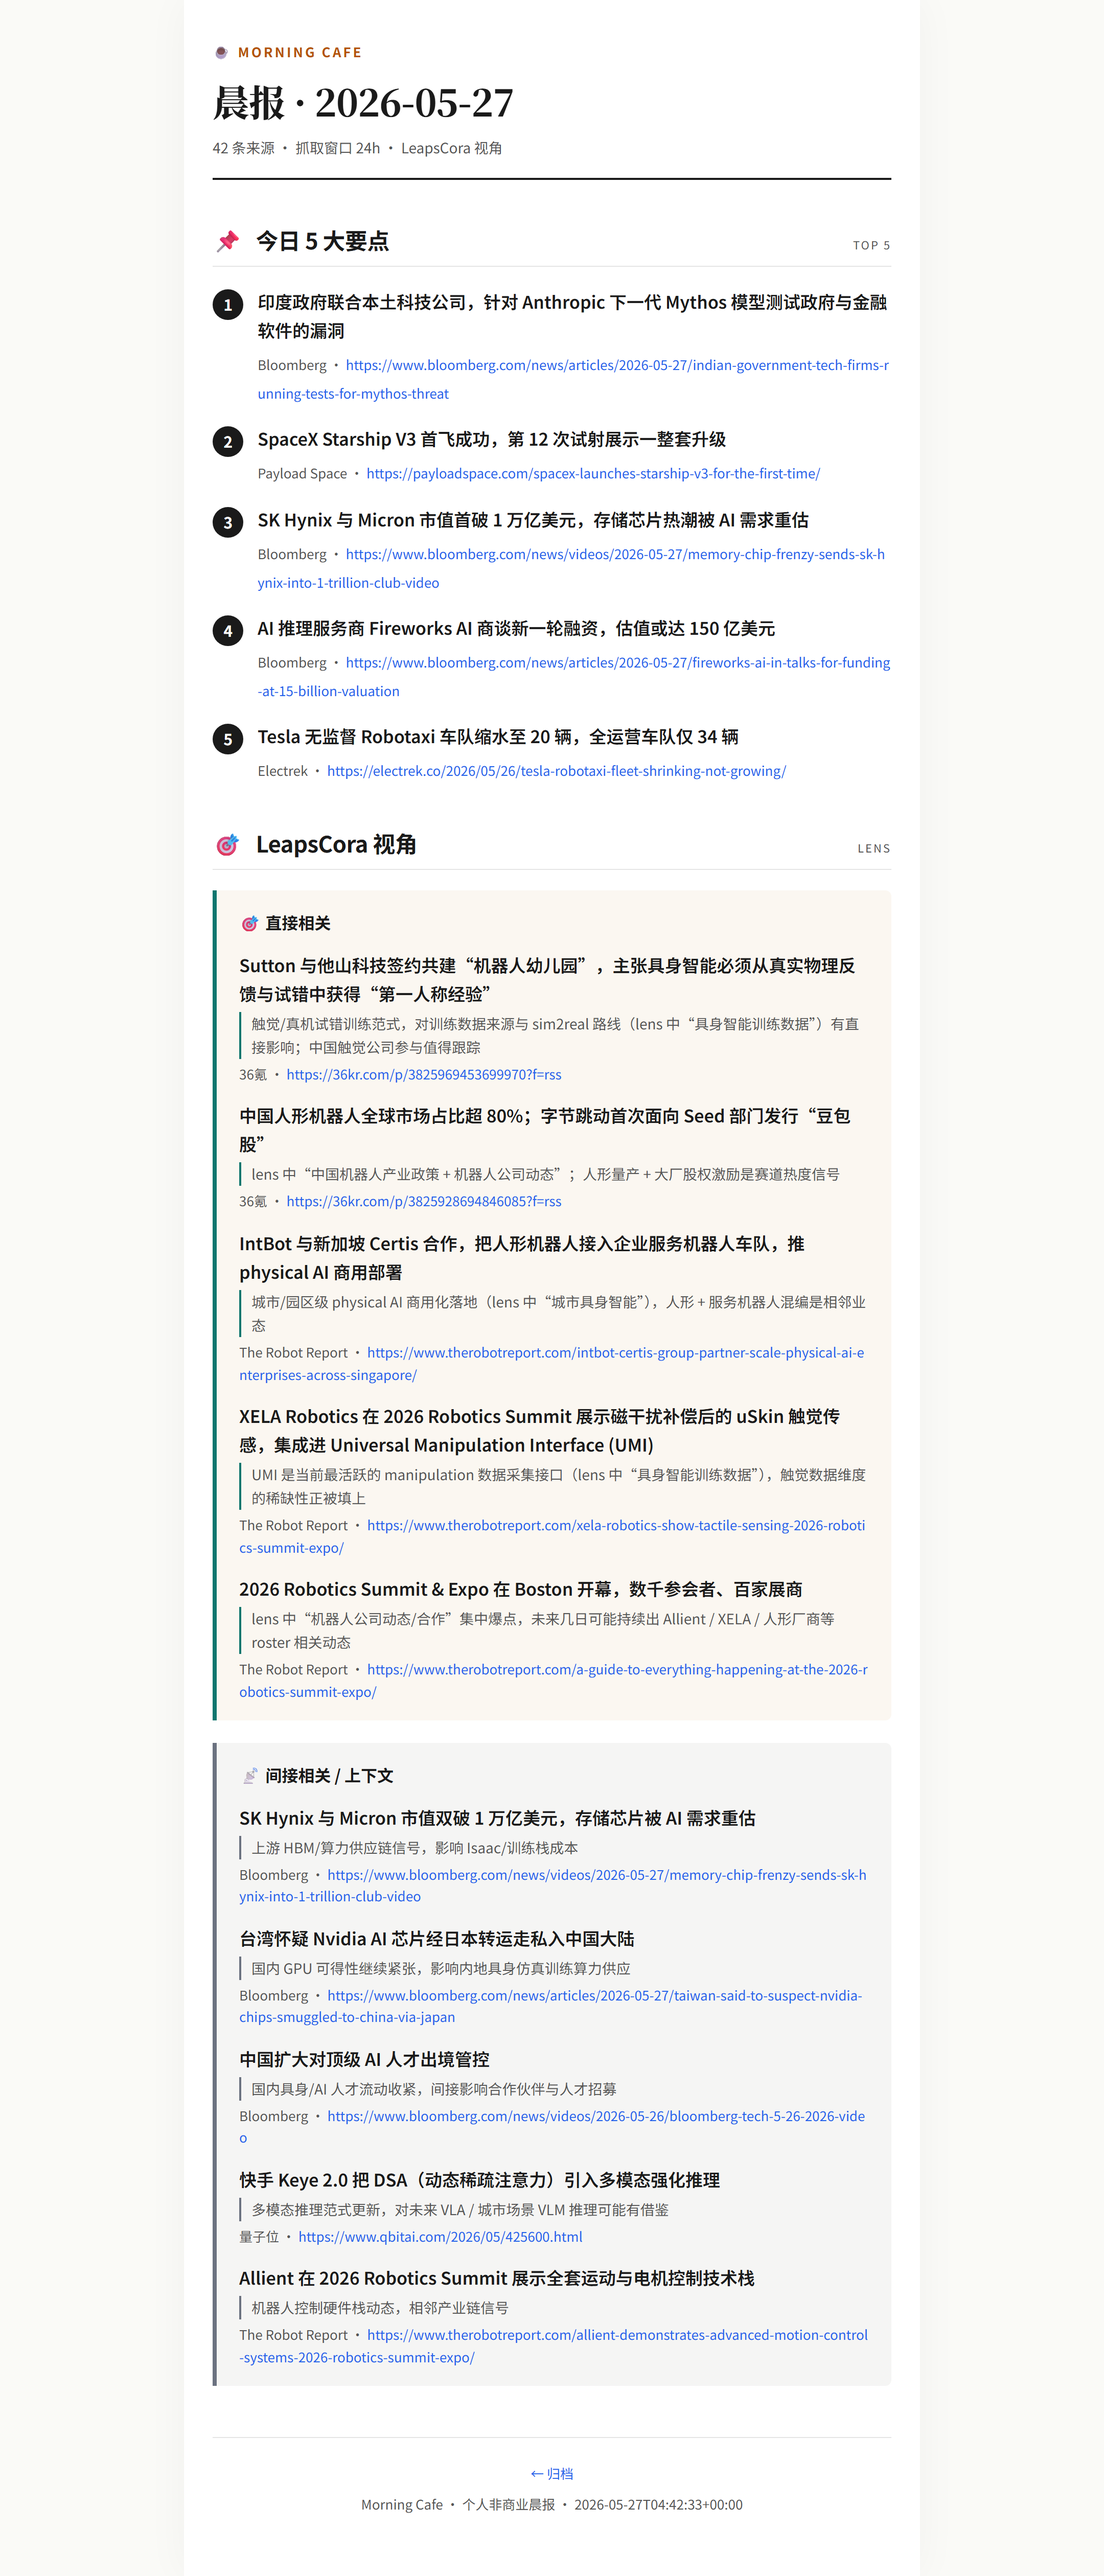
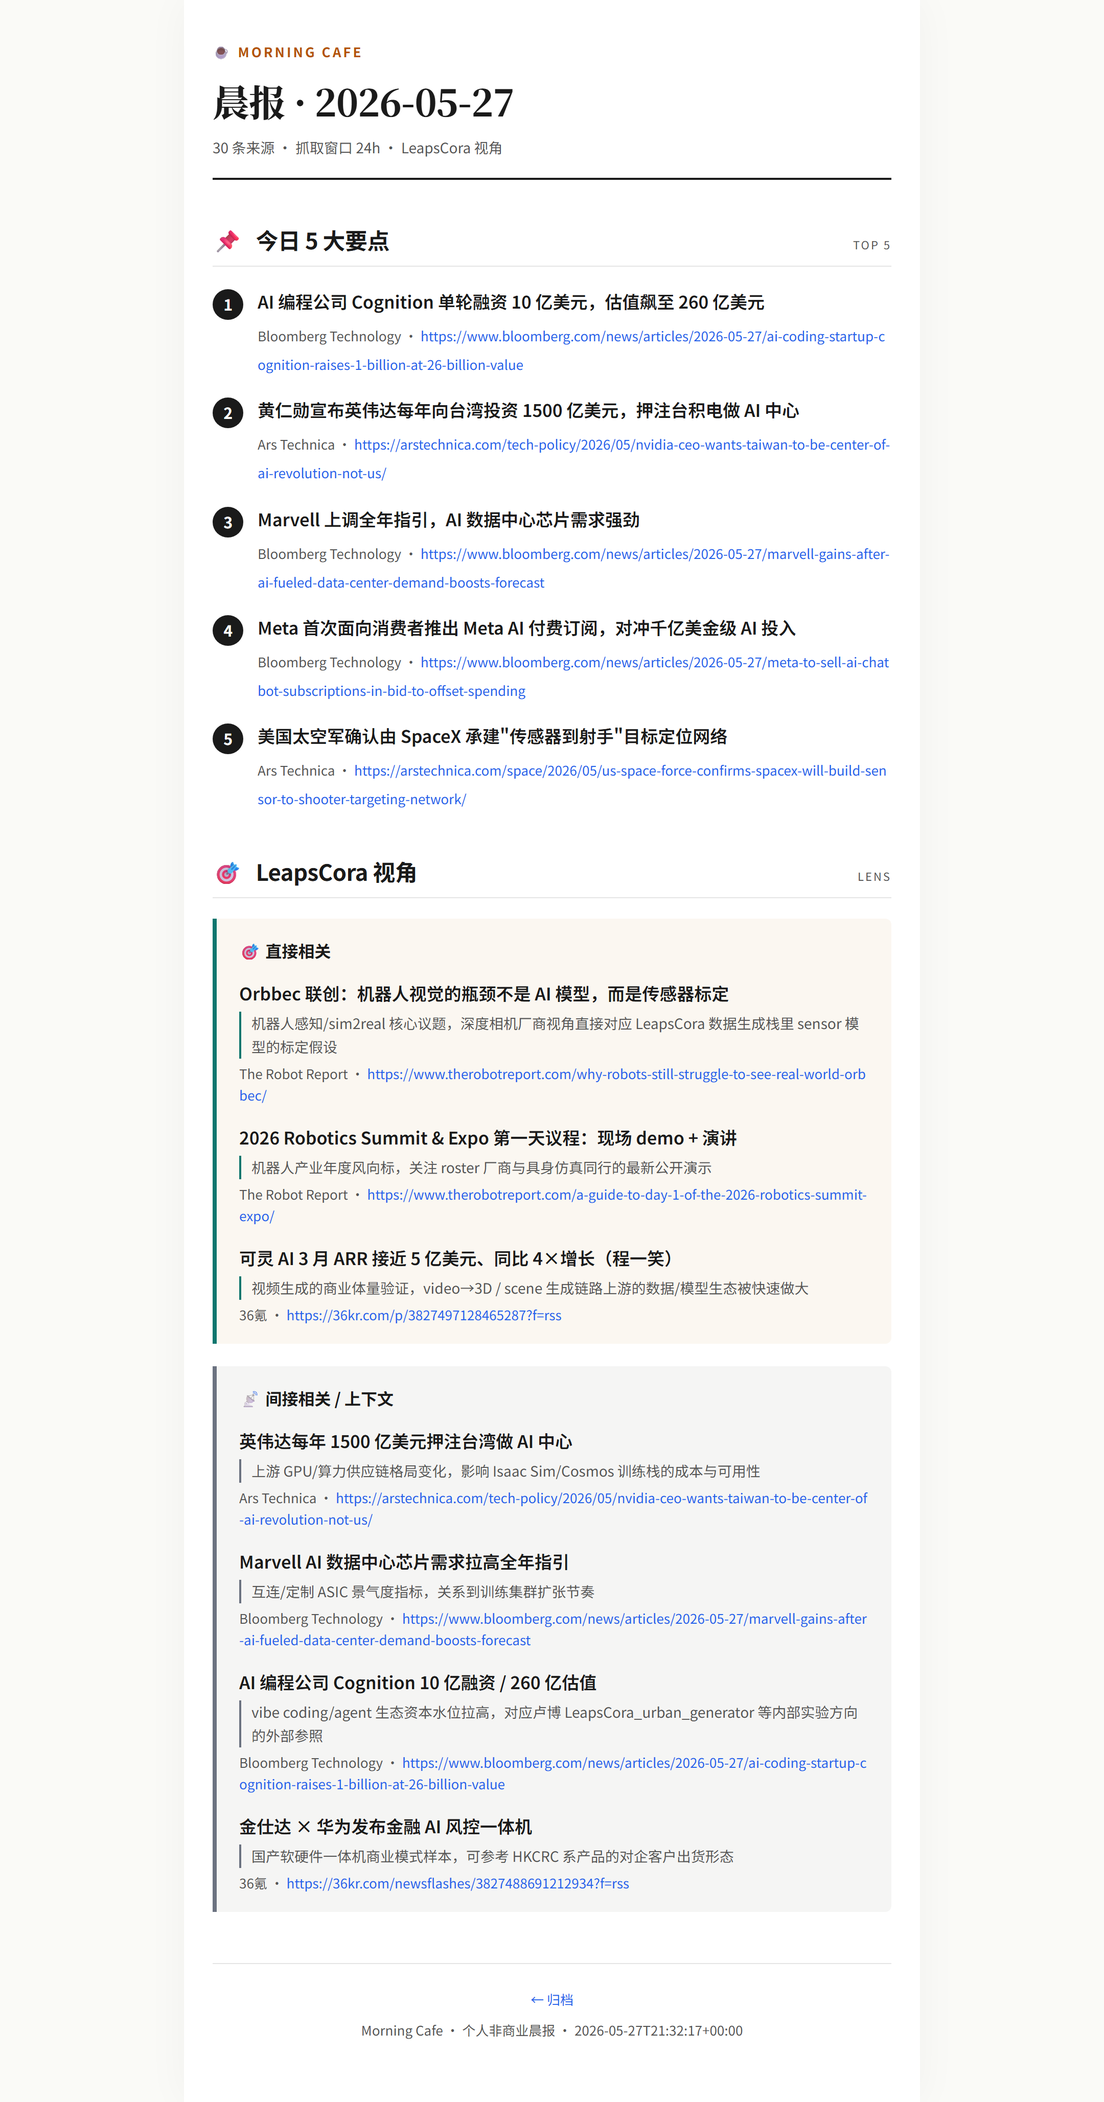
brief: 2026-05-27

diff --git a/docs/2026-05-27.html b/docs/2026-05-27.html
@@ -7,14 +7,14 @@
 
 <meta property="og:type" content="article">
 <meta property="og:title" content="晨报 · 2026-05-27｜LeapsCora 视角">
-<meta property="og:description" content="Top 5 首条：印度政府联合本土科技公司，针对 Anthropic 下一代 Mythos 模型测试政府与金融软件的漏洞 ｜ LeapsCora 直接相关：Sutton 与他山科技签约共建“机器人幼儿园”，主张具身智能必须从真实物理反馈与试错中获得“第一人称经验”">
+<meta property="og:description" content="Top 5 首条：AI 编程公司 Cognition 单轮融资 10 亿美元，估值飙至 260 亿美元 ｜ LeapsCora 直接相关：Orbbec 联创：机器人视觉的瓶颈不是 AI 模型，而是传感器标定">
 <meta property="og:image" content="https://sstormw.github.io/Morning-Cafe/img/2026-05-27.png">
 <meta property="og:url" content="https://sstormw.github.io/Morning-Cafe/2026-05-27.html">
 <meta property="og:site_name" content="Morning Cafe">
 
 <meta name="twitter:card" content="summary_large_image">
 <meta name="twitter:title" content="晨报 · 2026-05-27｜LeapsCora 视角">
-<meta name="twitter:description" content="Top 5 首条：印度政府联合本土科技公司，针对 Anthropic 下一代 Mythos 模型测试政府与金融软件的漏洞 ｜ LeapsCora 直接相关：Sutton 与他山科技签约共建“机器人幼儿园”，主张具身智能必须从真实物理反馈与试错中获得“第一人称经验”">
+<meta name="twitter:description" content="Top 5 首条：AI 编程公司 Cognition 单轮融资 10 亿美元，估值飙至 260 亿美元 ｜ LeapsCora 直接相关：Orbbec 联创：机器人视觉的瓶颈不是 AI 模型，而是传感器标定">
 <meta name="twitter:image" content="https://sstormw.github.io/Morning-Cafe/img/2026-05-27.png">
 
 <link rel="preconnect" href="https://fonts.googleapis.com">
@@ -138,7 +138,7 @@ body {
 <header class="masthead">
   <div class="brand">☕ Morning Cafe</div>
   <h1>晨报 · 2026-05-27</h1>
-  <div class="meta">42 条来源 · 抓取窗口 24h · LeapsCora 视角</div>
+  <div class="meta">30 条来源 · 抓取窗口 24h · LeapsCora 视角</div>
 </header>
 
 <section class="section">
@@ -150,28 +150,28 @@ body {
   <ol class="top5">
     
     <li>
-      <span class="title">印度政府联合本土科技公司，针对 Anthropic 下一代 Mythos 模型测试政府与金融软件的漏洞</span>
-      <span class="source">Bloomberg · <a href="https://www.bloomberg.com/news/articles/2026-05-27/indian-government-tech-firms-running-tests-for-mythos-threat">https://www.bloomberg.com/news/articles/2026-05-27/indian-government-tech-firms-running-tests-for-mythos-threat</a></span>
+      <span class="title">AI 编程公司 Cognition 单轮融资 10 亿美元，估值飙至 260 亿美元</span>
+      <span class="source">Bloomberg Technology · <a href="https://www.bloomberg.com/news/articles/2026-05-27/ai-coding-startup-cognition-raises-1-billion-at-26-billion-value">https://www.bloomberg.com/news/articles/2026-05-27/ai-coding-startup-cognition-raises-1-billion-at-26-billion-value</a></span>
     </li>
     
     <li>
-      <span class="title">SpaceX Starship V3 首飞成功，第 12 次试射展示一整套升级</span>
-      <span class="source">Payload Space · <a href="https://payloadspace.com/spacex-launches-starship-v3-for-the-first-time/">https://payloadspace.com/spacex-launches-starship-v3-for-the-first-time/</a></span>
+      <span class="title">黄仁勋宣布英伟达每年向台湾投资 1500 亿美元，押注台积电做 AI 中心</span>
+      <span class="source">Ars Technica · <a href="https://arstechnica.com/tech-policy/2026/05/nvidia-ceo-wants-taiwan-to-be-center-of-ai-revolution-not-us/">https://arstechnica.com/tech-policy/2026/05/nvidia-ceo-wants-taiwan-to-be-center-of-ai-revolution-not-us/</a></span>
     </li>
     
     <li>
-      <span class="title">SK Hynix 与 Micron 市值首破 1 万亿美元，存储芯片热潮被 AI 需求重估</span>
-      <span class="source">Bloomberg · <a href="https://www.bloomberg.com/news/videos/2026-05-27/memory-chip-frenzy-sends-sk-hynix-into-1-trillion-club-video">https://www.bloomberg.com/news/videos/2026-05-27/memory-chip-frenzy-sends-sk-hynix-into-1-trillion-club-video</a></span>
+      <span class="title">Marvell 上调全年指引，AI 数据中心芯片需求强劲</span>
+      <span class="source">Bloomberg Technology · <a href="https://www.bloomberg.com/news/articles/2026-05-27/marvell-gains-after-ai-fueled-data-center-demand-boosts-forecast">https://www.bloomberg.com/news/articles/2026-05-27/marvell-gains-after-ai-fueled-data-center-demand-boosts-forecast</a></span>
     </li>
     
     <li>
-      <span class="title">AI 推理服务商 Fireworks AI 商谈新一轮融资，估值或达 150 亿美元</span>
-      <span class="source">Bloomberg · <a href="https://www.bloomberg.com/news/articles/2026-05-27/fireworks-ai-in-talks-for-funding-at-15-billion-valuation">https://www.bloomberg.com/news/articles/2026-05-27/fireworks-ai-in-talks-for-funding-at-15-billion-valuation</a></span>
+      <span class="title">Meta 首次面向消费者推出 Meta AI 付费订阅，对冲千亿美金级 AI 投入</span>
+      <span class="source">Bloomberg Technology · <a href="https://www.bloomberg.com/news/articles/2026-05-27/meta-to-sell-ai-chatbot-subscriptions-in-bid-to-offset-spending">https://www.bloomberg.com/news/articles/2026-05-27/meta-to-sell-ai-chatbot-subscriptions-in-bid-to-offset-spending</a></span>
     </li>
     
     <li>
-      <span class="title">Tesla 无监督 Robotaxi 车队缩水至 20 辆，全运营车队仅 34 辆</span>
-      <span class="source">Electrek · <a href="https://electrek.co/2026/05/26/tesla-robotaxi-fleet-shrinking-not-growing/">https://electrek.co/2026/05/26/tesla-robotaxi-fleet-shrinking-not-growing/</a></span>
+      <span class="title">美国太空军确认由 SpaceX 承建&#34;传感器到射手&#34;目标定位网络</span>
+      <span class="source">Ars Technica · <a href="https://arstechnica.com/space/2026/05/us-space-force-confirms-spacex-will-build-sensor-to-shooter-targeting-network/">https://arstechnica.com/space/2026/05/us-space-force-confirms-spacex-will-build-sensor-to-shooter-targeting-network/</a></span>
     </li>
     
   </ol>
@@ -190,33 +190,21 @@ body {
     <h3>🎯 直接相关</h3>
     
     <div class="leaps-item">
-      <span class="title">Sutton 与他山科技签约共建“机器人幼儿园”，主张具身智能必须从真实物理反馈与试错中获得“第一人称经验”</span>
-      <div class="why">触觉/真机试错训练范式，对训练数据来源与 sim2real 路线（lens 中“具身智能训练数据”）有直接影响；中国触觉公司参与值得跟踪</div>
-      <div class="source">36氪 · <a href="https://36kr.com/p/3825969453699970?f=rss">https://36kr.com/p/3825969453699970?f=rss</a></div>
+      <span class="title">Orbbec 联创：机器人视觉的瓶颈不是 AI 模型，而是传感器标定</span>
+      <div class="why">机器人感知/sim2real 核心议题，深度相机厂商视角直接对应 LeapsCora 数据生成栈里 sensor 模型的标定假设</div>
+      <div class="source">The Robot Report · <a href="https://www.therobotreport.com/why-robots-still-struggle-to-see-real-world-orbbec/">https://www.therobotreport.com/why-robots-still-struggle-to-see-real-world-orbbec/</a></div>
     </div>
     
     <div class="leaps-item">
-      <span class="title">中国人形机器人全球市场占比超 80%；字节跳动首次面向 Seed 部门发行“豆包股”</span>
-      <div class="why">lens 中“中国机器人产业政策 + 机器人公司动态”；人形量产 + 大厂股权激励是赛道热度信号</div>
-      <div class="source">36氪 · <a href="https://36kr.com/p/3825928694846085?f=rss">https://36kr.com/p/3825928694846085?f=rss</a></div>
+      <span class="title">2026 Robotics Summit &amp; Expo 第一天议程：现场 demo + 演讲</span>
+      <div class="why">机器人产业年度风向标，关注 roster 厂商与具身仿真同行的最新公开演示</div>
+      <div class="source">The Robot Report · <a href="https://www.therobotreport.com/a-guide-to-day-1-of-the-2026-robotics-summit-expo/">https://www.therobotreport.com/a-guide-to-day-1-of-the-2026-robotics-summit-expo/</a></div>
     </div>
     
     <div class="leaps-item">
-      <span class="title">IntBot 与新加坡 Certis 合作，把人形机器人接入企业服务机器人车队，推 physical AI 商用部署</span>
-      <div class="why">城市/园区级 physical AI 商用化落地（lens 中“城市具身智能”），人形 + 服务机器人混编是相邻业态</div>
-      <div class="source">The Robot Report · <a href="https://www.therobotreport.com/intbot-certis-group-partner-scale-physical-ai-enterprises-across-singapore/">https://www.therobotreport.com/intbot-certis-group-partner-scale-physical-ai-enterprises-across-singapore/</a></div>
-    </div>
-    
-    <div class="leaps-item">
-      <span class="title">XELA Robotics 在 2026 Robotics Summit 展示磁干扰补偿后的 uSkin 触觉传感，集成进 Universal Manipulation Interface (UMI)</span>
-      <div class="why">UMI 是当前最活跃的 manipulation 数据采集接口（lens 中“具身智能训练数据”），触觉数据维度的稀缺性正被填上</div>
-      <div class="source">The Robot Report · <a href="https://www.therobotreport.com/xela-robotics-show-tactile-sensing-2026-robotics-summit-expo/">https://www.therobotreport.com/xela-robotics-show-tactile-sensing-2026-robotics-summit-expo/</a></div>
-    </div>
-    
-    <div class="leaps-item">
-      <span class="title">2026 Robotics Summit &amp; Expo 在 Boston 开幕，数千参会者、百家展商</span>
-      <div class="why">lens 中“机器人公司动态/合作”集中爆点，未来几日可能持续出 Allient / XELA / 人形厂商等 roster 相关动态</div>
-      <div class="source">The Robot Report · <a href="https://www.therobotreport.com/a-guide-to-everything-happening-at-the-2026-robotics-summit-expo/">https://www.therobotreport.com/a-guide-to-everything-happening-at-the-2026-robotics-summit-expo/</a></div>
+      <span class="title">可灵 AI 3 月 ARR 接近 5 亿美元、同比 4×增长（程一笑）</span>
+      <div class="why">视频生成的商业体量验证，video→3D / scene 生成链路上游的数据/模型生态被快速做大</div>
+      <div class="source">36氪 · <a href="https://36kr.com/p/3827497128465287?f=rss">https://36kr.com/p/3827497128465287?f=rss</a></div>
     </div>
     
   </div>
@@ -227,33 +215,27 @@ body {
     <h3>📡 间接相关 / 上下文</h3>
     
     <div class="leaps-item">
-      <span class="title">SK Hynix 与 Micron 市值双破 1 万亿美元，存储芯片被 AI 需求重估</span>
-      <div class="why">上游 HBM/算力供应链信号，影响 Isaac/训练栈成本</div>
-      <div class="source">Bloomberg · <a href="https://www.bloomberg.com/news/videos/2026-05-27/memory-chip-frenzy-sends-sk-hynix-into-1-trillion-club-video">https://www.bloomberg.com/news/videos/2026-05-27/memory-chip-frenzy-sends-sk-hynix-into-1-trillion-club-video</a></div>
+      <span class="title">英伟达每年 1500 亿美元押注台湾做 AI 中心</span>
+      <div class="why">上游 GPU/算力供应链格局变化，影响 Isaac Sim/Cosmos 训练栈的成本与可用性</div>
+      <div class="source">Ars Technica · <a href="https://arstechnica.com/tech-policy/2026/05/nvidia-ceo-wants-taiwan-to-be-center-of-ai-revolution-not-us/">https://arstechnica.com/tech-policy/2026/05/nvidia-ceo-wants-taiwan-to-be-center-of-ai-revolution-not-us/</a></div>
     </div>
     
     <div class="leaps-item">
-      <span class="title">台湾怀疑 Nvidia AI 芯片经日本转运走私入中国大陆</span>
-      <div class="why">国内 GPU 可得性继续紧张，影响内地具身仿真训练算力供应</div>
-      <div class="source">Bloomberg · <a href="https://www.bloomberg.com/news/articles/2026-05-27/taiwan-said-to-suspect-nvidia-chips-smuggled-to-china-via-japan">https://www.bloomberg.com/news/articles/2026-05-27/taiwan-said-to-suspect-nvidia-chips-smuggled-to-china-via-japan</a></div>
+      <span class="title">Marvell AI 数据中心芯片需求拉高全年指引</span>
+      <div class="why">互连/定制 ASIC 景气度指标，关系到训练集群扩张节奏</div>
+      <div class="source">Bloomberg Technology · <a href="https://www.bloomberg.com/news/articles/2026-05-27/marvell-gains-after-ai-fueled-data-center-demand-boosts-forecast">https://www.bloomberg.com/news/articles/2026-05-27/marvell-gains-after-ai-fueled-data-center-demand-boosts-forecast</a></div>
     </div>
     
     <div class="leaps-item">
-      <span class="title">中国扩大对顶级 AI 人才出境管控</span>
-      <div class="why">国内具身/AI 人才流动收紧，间接影响合作伙伴与人才招募</div>
-      <div class="source">Bloomberg · <a href="https://www.bloomberg.com/news/videos/2026-05-26/bloomberg-tech-5-26-2026-video">https://www.bloomberg.com/news/videos/2026-05-26/bloomberg-tech-5-26-2026-video</a></div>
+      <span class="title">AI 编程公司 Cognition 10 亿融资 / 260 亿估值</span>
+      <div class="why">vibe coding/agent 生态资本水位拉高，对应卢博 LeapsCora_urban_generator 等内部实验方向的外部参照</div>
+      <div class="source">Bloomberg Technology · <a href="https://www.bloomberg.com/news/articles/2026-05-27/ai-coding-startup-cognition-raises-1-billion-at-26-billion-value">https://www.bloomberg.com/news/articles/2026-05-27/ai-coding-startup-cognition-raises-1-billion-at-26-billion-value</a></div>
     </div>
     
     <div class="leaps-item">
-      <span class="title">快手 Keye 2.0 把 DSA（动态稀疏注意力）引入多模态强化推理</span>
-      <div class="why">多模态推理范式更新，对未来 VLA / 城市场景 VLM 推理可能有借鉴</div>
-      <div class="source">量子位 · <a href="https://www.qbitai.com/2026/05/425600.html">https://www.qbitai.com/2026/05/425600.html</a></div>
-    </div>
-    
-    <div class="leaps-item">
-      <span class="title">Allient 在 2026 Robotics Summit 展示全套运动与电机控制技术栈</span>
-      <div class="why">机器人控制硬件栈动态，相邻产业链信号</div>
-      <div class="source">The Robot Report · <a href="https://www.therobotreport.com/allient-demonstrates-advanced-motion-control-systems-2026-robotics-summit-expo/">https://www.therobotreport.com/allient-demonstrates-advanced-motion-control-systems-2026-robotics-summit-expo/</a></div>
+      <span class="title">金仕达 × 华为发布金融 AI 风控一体机</span>
+      <div class="why">国产软硬件一体机商业模式样本，可参考 HKCRC 系产品的对企客户出货形态</div>
+      <div class="source">36氪 · <a href="https://36kr.com/newsflashes/3827488691212934?f=rss">https://36kr.com/newsflashes/3827488691212934?f=rss</a></div>
     </div>
     
   </div>
@@ -265,7 +247,7 @@ body {
   <div class="nav">
     <a href="./index.html">← 归档</a>
   </div>
-  <div>Morning Cafe · 个人非商业晨报 · 2026-05-27T04:42:33+00:00</div>
+  <div>Morning Cafe · 个人非商业晨报 · 2026-05-27T21:32:17+00:00</div>
 </footer>
 
 </div>
